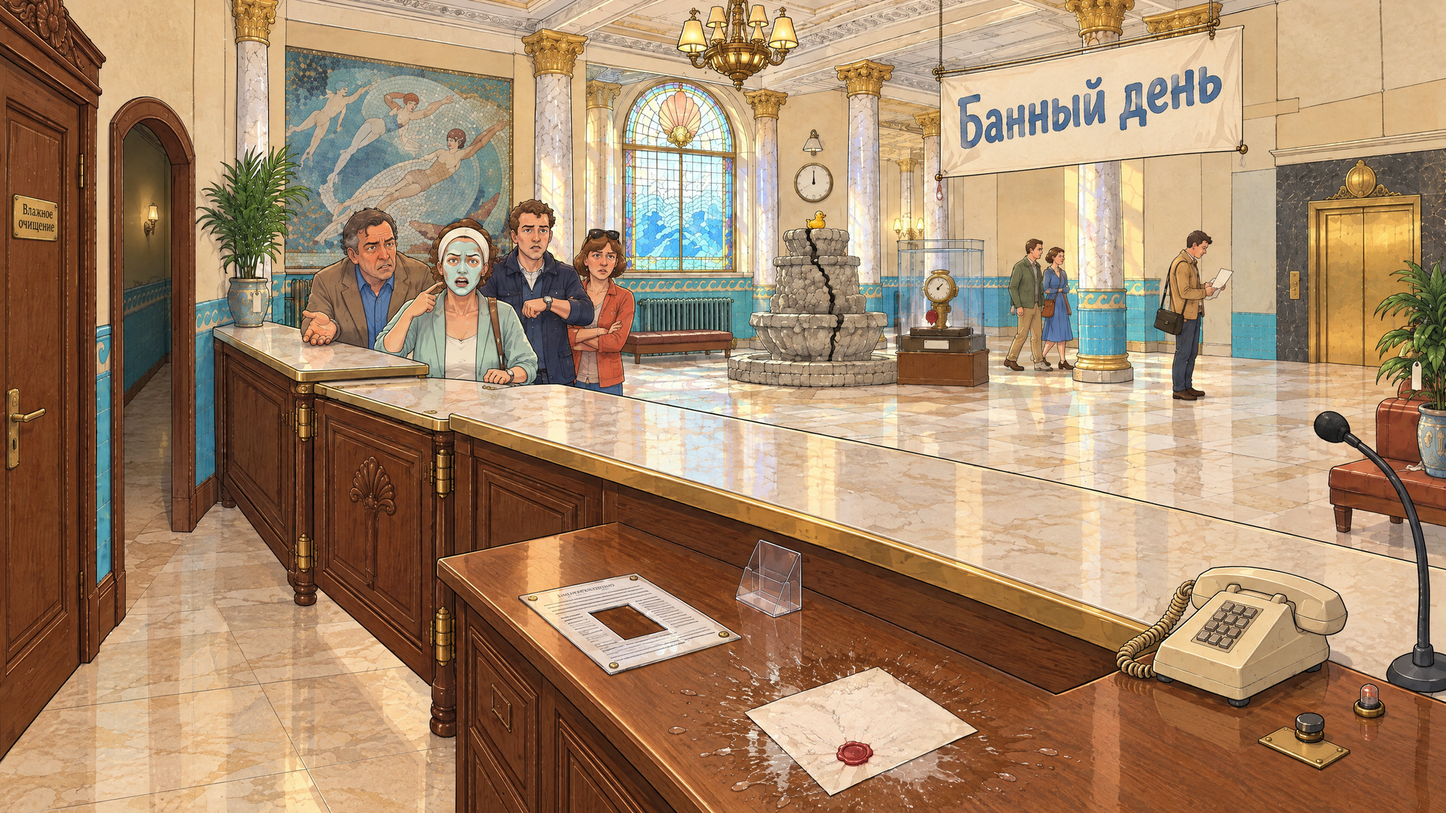
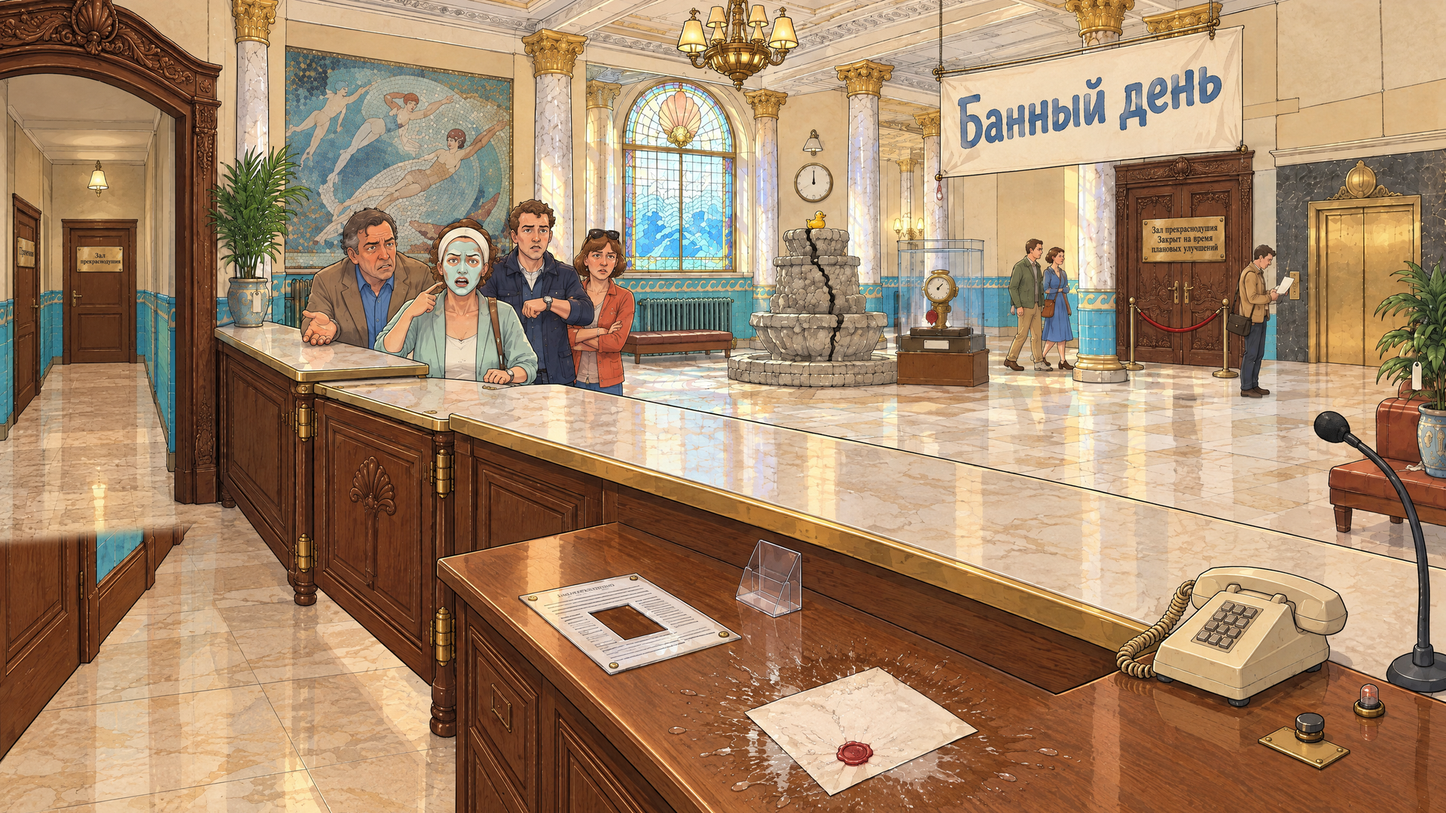
W2 по утверждённой топологии: арка в служебный коридор, парадные двери зала (заперты), таблички врезаны из крупного плана (tools/assets/plaque_insert.py)
Claude-Session: https://claude.ai/code/session_01Bbq6Feu1G5NepL2mZVzLSv

Changed region(s): [[0.0, 0.0, 0.1562, 0.7639], [0.75, 0.1528, 1.0, 0.4889], [0.9375, 0.3056, 1.0, 0.4889]]

diff --git a/tools/assets/plaque_insert.py b/tools/assets/plaque_insert.py
@@ -1,0 +1,45 @@
+#!/usr/bin/env python3
+"""Врезать табличку с надписью (сгенерированную крупным планом и сверенную побуквенно) в кадр по четырём углам.
+
+  python tools/assets/plaque_insert.py КАДР.png ИСТОЧНИК.png X0,Y0,X1,Y1 'x,y x,y x,y x,y' ВЫХОД.png
+
+X0..Y1 — прямоугольник таблички в источнике; четыре точки — углы в кадре (лв, пв, пн, лн).
+Яркость и цвет таблички подгоняются к тому, что было на этом месте в кадре (средние по каналам).
+"""
+import sys
+import numpy as np
+from PIL import Image, ImageDraw, ImageFilter
+
+
+def coeffs(dst, src):
+    a = []
+    for (x, y), (u, v) in zip(dst, src):
+        a.append([x, y, 1, 0, 0, 0, -u * x, -u * y]); a.append([0, 0, 0, x, y, 1, -v * x, -v * y])
+    b = [c for p in src for c in p]
+    return np.linalg.solve(np.array(a, float), np.array(b, float)).tolist()
+
+
+def main(frame, source, box, quad, out):
+    fr = Image.open(frame).convert('RGB'); sr = Image.open(source).convert('RGB')
+    x0, y0, x1, y1 = map(int, box.split(','))
+    q = [tuple(map(float, p.split(','))) for p in quad.split()]
+    S = 4  # суперсэмплинг для гладких краёв
+    W, H = fr.size
+    big = sr.crop((x0, y0, x1, y1))
+    w, h = big.size
+    src_pts = [(0, 0), (w, 0), (w, h), (0, h)]
+    dst_big = [(x * S, y * S) for x, y in q]
+    warped = big.transform((W * S, H * S), Image.PERSPECTIVE, coeffs(dst_big, src_pts), Image.BICUBIC)
+    mask = Image.new('L', (W * S, H * S), 0); ImageDraw.Draw(mask).polygon(dst_big, fill=255)
+    warped = warped.resize((W, H), Image.LANCZOS); mask = mask.resize((W, H), Image.LANCZOS)
+    m = np.asarray(mask) > 128
+    f = np.asarray(fr, dtype=np.float32); wv = np.asarray(warped, dtype=np.float32)
+    gain = f[m].mean(axis=0) / np.maximum(wv[m].mean(axis=0), 1)
+    wv = np.clip(wv * gain, 0, 255).astype(np.uint8)
+    res = Image.composite(Image.fromarray(wv), fr, mask.filter(ImageFilter.GaussianBlur(0.6)))
+    res.save(out)
+    print('gain', [round(float(g), 2) for g in gain])
+
+
+if __name__ == '__main__':
+    main(*sys.argv[1:6])
